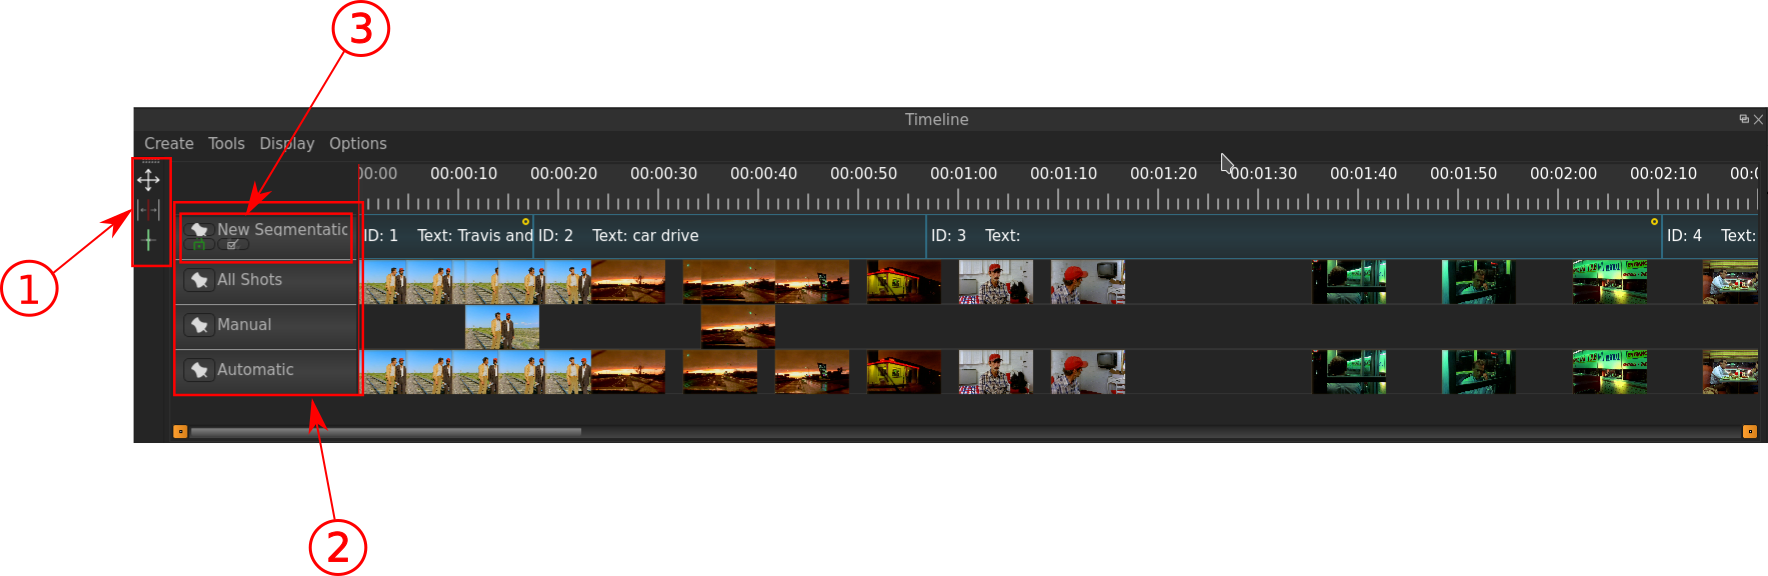
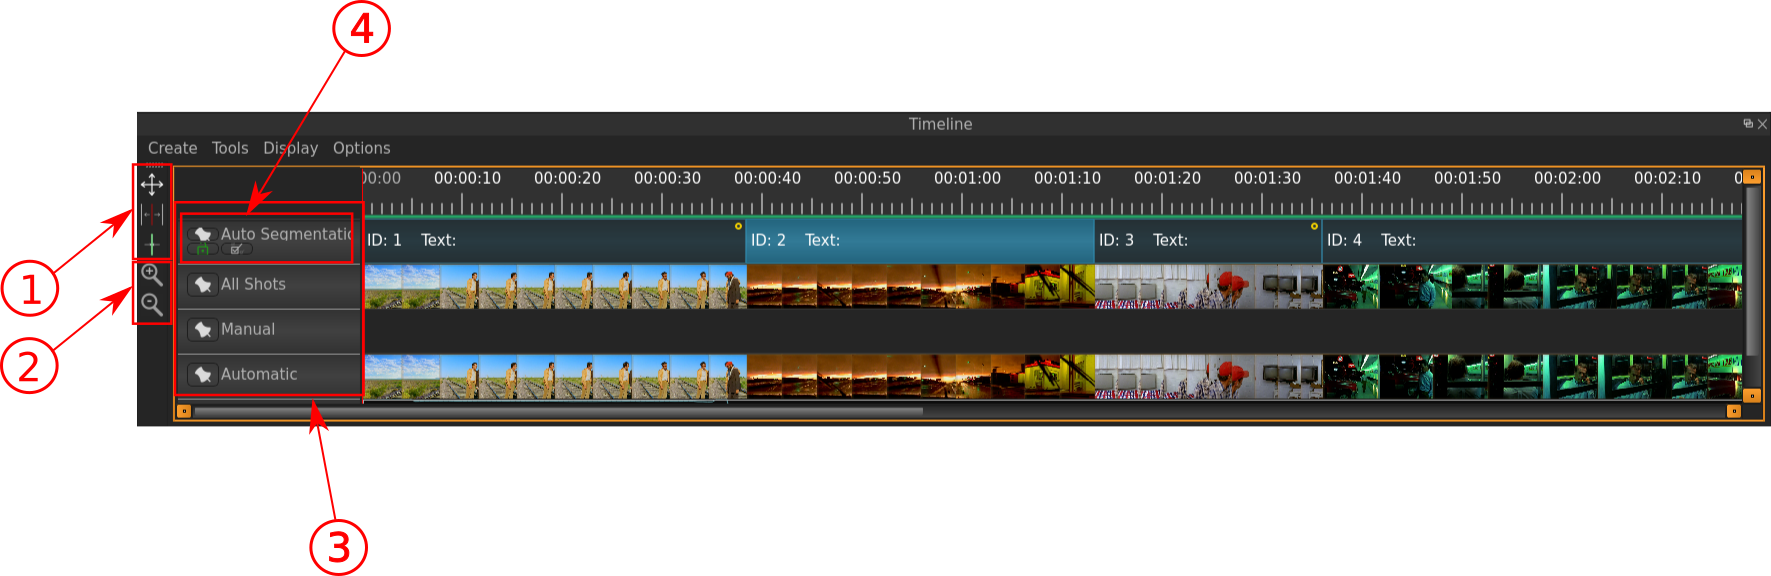
added updated picture of timeline

diff --git a/_docs/source/user_interface/interface_detail/timeline/timeline.rst b/_docs/source/user_interface/interface_detail/timeline/timeline.rst
@@ -20,8 +20,9 @@ Indicated in the image above are:
  - The Selection Tool |selection_tool| is simply for selecting a Segment, to e.g. view its properties in the **Inspector** or moving its bounderies.
  - The Splitting Tool |splitting_tool| is for splitting a existing Segment apart, e.g. when you realize that a Segment isn't coherent regarding its colorpattern. As you move the Splitting Tool over the Segment, you see in the **Player** at which frame you are at, so you can split the Segment right away at the correct point, so you don't have to adjust it afterwards.
  - The Merging Tool |merging_tool| is for merging two Segments into one, this is typically necessary after you did an auto-segmentation.
-- **2**: The different Layers that are being displayed in the Timeline: On the image above there is one Segmentation-Layer - **3** - and three Screenshot-Layers, where the first one shows all Screenshots, the second layer shows the one taken by hand, and the third one shows the ones that were automatically generated.
-- **3**: Below the Segmentation Layer are the clickable icons for two useful tools:
+- **2**: Buttons for zooming in and out of the Timeline (also possible with shortcut CTRL + Scroll).
+- **3**: The different Layers that are being displayed in the Timeline: On the image above there is one Segmentation-Layer - **4** - and three Screenshot-Layers, where the first one shows all Screenshots, the second layer shows the one taken by hand, and the third one shows the ones that were automatically generated.
+- **4**: Below the Segmentation Layer are the clickable icons for two useful tools:
  - The locking Tool |lock_tool| is for disable the possibility of changing the segmentation - if it is red, you cannot manipulate Segments.
  - The Classifying Tool |classify_tool| is useful if you want to quickly classify in the timeline certain Segments - this is espacially handy if you want to classify several successive Segments with the same Tag (see image below), which is more cumbersome using the :ref:`classification` widget.
 
